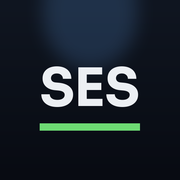
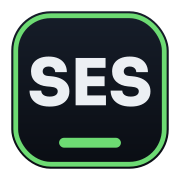
The browser tab was still the old "S" tile
The favicon, the apple-touch icon and the 512 PWA icon were all the Sysible "S"
mark. The company mark is the SES lockup, so a tab opened on sysible.com was
showing the one logo that is explicitly not wanted.

A favicon cannot be the lockup itself. It is 6.4 times wider than it is tall,
and a favicon is mostly 16 or 32 pixels square — the tagline would be a smear.
So the tab carries the distinctive half, SES, on the same dark tile with the
same green ring and rule the product marks use. Checked by rendering at 16, 32,
48 and 64: it reads from 32 up, which is what a HiDPI tab actually requests.

The letterforms are Sora at weight 800, BAKED TO OUTLINES, not set as <text>.
An SVG favicon cannot load a web font, so <text> would have fallen back to
whatever sans the viewer happens to have and the wordmark would differ per
machine — the previous favicon's own comment says exactly this about its "S",
and the point survives having three letters instead of one. Extracted straight
from fonts/Sora.ttf with fontTools, instanced to wght=800, and positioned from
the real glyph bounding box rather than by eye.

Also: the landing page's <title> said "Sysible — Downloads", which is the tab
text in the report. It now names the company.

Claude-Session: https://claude.ai/code/session_01Rykm1PRspyG3mLbsfLyocH

diff --git a/index.html b/index.html
@@ -1,5 +1,5 @@
 <meta charset="utf-8">
-<title>Sysible — Downloads</title>
+<title>Sysible Enterprise Software — Downloads</title>
 <link rel="icon" type="image/svg+xml" href="/favicon.svg"><link rel="apple-touch-icon" href="/apple-touch-icon.png"><link rel="icon" type="image/png" sizes="512x512" href="/icon-512.png">
 <meta name="viewport" content="width=device-width, initial-scale=1">
 <meta name="description" content="Download Sysible Workstation — the engineering & automation workstation OS — and Sysible Controller CE. Installable ISOs for amd64 and arm64 with checksums.">
